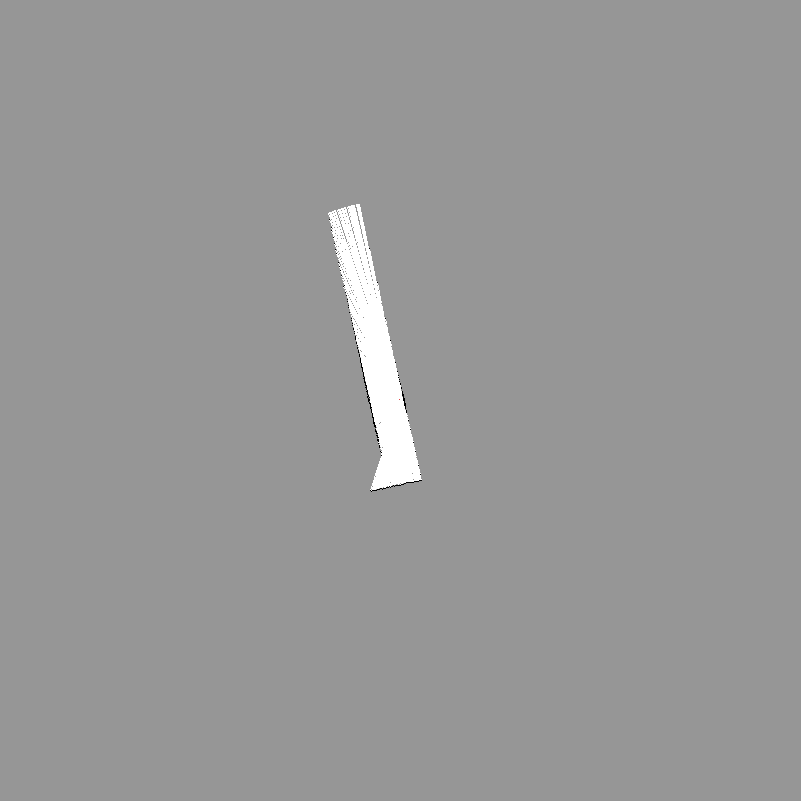
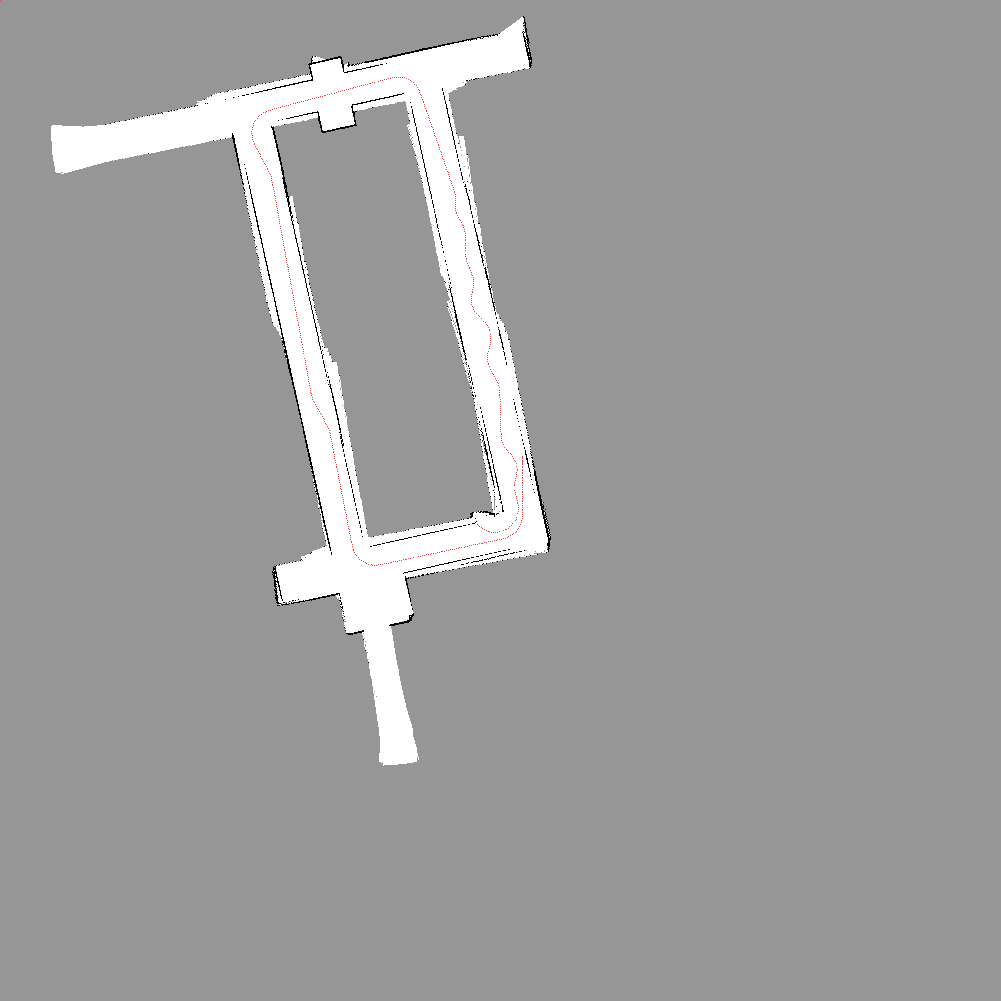
update func

Changed region(s): [[0.0312, 0.0, 0.5618, 0.7803]]

diff --git a/rbpf_dataloader.py b/rbpf_dataloader.py
@@ -10,6 +10,7 @@
 import pickle
 import numpy as np
 from scipy.spatial.transform import Rotation as R
+import transformations as tf
 
 class DataLoader():
     '''
@@ -61,13 +62,20 @@ class DataLoader():
         odom_idx = np.argmin(np.abs(self.odom_['time'] - lidar_t))
         return np.array([self.odom_['x'][odom_idx], self.odom_['y'][odom_idx], self.odom_['theta'][odom_idx]])
         
-    def _polar_to_cartesian(self, scan):
+    def _polar_to_cartesian(self, scan, pose = None):
         '''
             Converts polar scan to cartisian x,y coordinates
         '''
         scan[scan > self.lidar_max_ ] = self.lidar_max_ 
         lidar_ptx = scan * np.cos(self.lidar_angles_)
         lidar_pty = scan * np.sin(self.lidar_angles_)
+        
+        if pose is not None:
+            T = tf.twoDTransformation(pose[0],pose[1],pose[2])
+            pts = np.vstack((lidar_ptx, lidar_pty, np.ones(lidar_ptx.shape)))
+            trans_pts = T@pts
+            lidar_ptx, lidar_pty, _ = trans_pts
+            
         return lidar_ptx, lidar_pty
     
     def _world_to_map(self, world_x, world_y, MAP):
@@ -138,29 +146,21 @@ def test_data_loader():
     return DataLoader(lidar_scan_path, odom_path, lidar_specs_path)
     
     
-if __name__ == '__main__':
-    
-    d = test_data_loader()
-    res = d.bresenham2D(3,3,10,10)     
-
-    
     
 #### ONLY FOR CLEANING PICKLED BAG DATA ####
 def clean_data():
     # converts pickled bag into clean format for loading
-    lidar_scan_path = "data/lidar_scan.pkl"
+    
+    # lidar_scan_path = "data/lidar_scan.pkl"
+    # lidar = pickle.load(open(lidar_scan_path, "rb"))
+    # lidar_t, lidar_scan = clean_lidar(lidar)
+    # lidar_data = {'time':lidar_t, 'scan':lidar_scan}
+    # pickle.dump( lidar_data, open( "processed_lidar.pkl", "wb" ) )
+    
     odom_path = "data/odom.pkl"   
-    
-    lidar = pickle.load(open(lidar_scan_path, "rb"))
     odom = pickle.load(open(odom_path, "rb"))
-    
-    lidar_t, lidar_scan = clean_lidar(lidar)
     odom_t, odom_x, odom_y, odom_theta = clean_odom(odom)
-    
-    lidar_data = {'time':lidar_t, 'scan':lidar_scan}
     odom_data = {'time':odom_t, 'x':odom_x, 'y':odom_y, 'theta':odom_theta}
-    
-    pickle.dump( lidar_data, open( "processed_lidar.pkl", "wb" ) )
     pickle.dump( odom_data, open( "processed_odom.pkl", "wb" ) )
     print('done')
     
@@ -175,8 +175,8 @@ def clean_odom(odom):
     
     x = np.array(odom['posx'])
     y = np.array(odom['posy'])
-    x = x - x[0]
-    y = y - y[0]
+    # x = x - x[0]
+    # y = y - y[0]
     
     quatz = np.array(odom['quatz'])
     quatw = np.array(odom['quatw'])   
@@ -189,6 +189,11 @@ def clean_odom(odom):
     euler = r.as_euler('zyx', degrees=False)
     
     theta = euler[:,0]
+ 
+    pts = np.vstack((x,y,np.ones(x.shape)))
+    trans_pts = tf.twoDTransformation(-x[0],-y[0],-theta[0])@pts
+    x,y = trans_pts[0],trans_pts[1]
+    print(theta[0])
     theta = theta - theta[0]
     
     angle_range = np.pi
@@ -213,4 +218,11 @@ def clean_lidar(lidar):
     
     tot_msec, scan = tot_msec[::50], scan[::50]
     return tot_msec, scan
+ 
+    
+if __name__ == '__main__':
+    
+    # d = test_data_loader()
+    # res = d.bresenham2D(3,3,10,10)     
+    clean_data()
     

diff --git a/rbpf_SLAM.py b/rbpf_SLAM.py
@@ -14,10 +14,11 @@ from rbpf_particle import Particle
 from rbpf_dataloader import DataLoader
 import matplotlib.pyplot as plt
 import cv2
+import transformations as tf
 
 class SLAM():
     
-    def __init__(self,  mov_cov, num_p = 20, map_resolution = 0.05, map_dimension = 20, Neff_thresh = 0.6):
+    def __init__(self, data_path, mov_cov, num_p = 20, map_resolution = 0.05, map_dimension = 20, Neff_thresh = 0.6):
         
         self.num_p_ = num_p
         self.Neff_ = 0
@@ -29,27 +30,24 @@ class SLAM():
         for i in range(self.num_p_):
             self.particles_.append(Particle(map_dimension, map_resolution, num_p))
         
-        lidar_scan_path = "data/processed_lidar.pkl"
-        odom_path = "data/processed_odom.pkl"
-        lidar_specs_path = "data/lidar_specs.pkl"
-        self.data_ = DataLoader(lidar_scan_path, odom_path, lidar_specs_path)
+        self.data_ = DataLoader(data_path[0], data_path[1], data_path[2])
         
         
     def _resample(self):
         pass
     
-    def _slam_update(self):
-        
+    def _slam_update(self):       
         for p in self.particles_:
-            pass
-        
+            pass     
         if self.Neff_ > self.Neff_thresh_:
             self._resample()
         
     def _run_slam(self, t0, t_end = None):
-        
+        '''
+            Performs SLAM
+        '''
         t_end = self.data_.lidar_['num_data'] if t_end is None else t_end + 1
-          
+                 
         for t in range(t0, t_end):                     
             if t == t0:
                 print("----Building first map----")
@@ -63,12 +61,34 @@ class SLAM():
                 # predict with motion model
                 pred_pose = p._predict(self.data_, t, self.mov_cov_)
                 
+                #### REMEAINING STEPS
+                est_pose = pred_pose
+                ####
                 
+                p._update_map(self.data_, t, est_pose)
                 
+        self._gen_map(p)
+    
+    
+    def _mapping_with_known_poses(self, t0, t_end = None, interval = 1):
+        '''
+            Uses noiseless odom data to generate entire map
+        '''
+        t_end = self.data_.lidar_['num_data'] if t_end is None else t_end + 1
+        p = self.particles_[0]
+        for t in range(t0, t_end, interval):                             
+            odom = self.data_._odom_at_lidar_idx(t)  
+            p._update_map(self.data_, t, odom)
+            if t%50==0:
+                self._gen_map(p)
+            print(t)                
+        self._gen_map(p)
                 
             
     def _gen_map(self, particle):
-        
+        '''
+            Generates map for visualization
+        '''
         log_odds      = particle.log_odds_
         logodd_thresh = particle.logodd_thresh_
         MAP = particle.MAP_

diff --git a/rbpf_particle.py b/rbpf_particle.py
@@ -53,7 +53,7 @@ class Particle():
         '''
         scan = data_.lidar_['scan'][t]
         obstacle = scan < data_.lidar_max_
-        world_x, world_y = data_._polar_to_cartesian(scan)
+        world_x, world_y = data_._polar_to_cartesian(scan, None)
         map_x, map_y = data_._world_to_map(world_x, world_y, self.MAP_)
         r_map_x, r_map_y = data_._world_to_map(0, 0, self.MAP_)
         
@@ -111,12 +111,28 @@ class Particle():
         Updates weight
         '''
     
-    def _update_map(self, data_, t):
+    def _update_map(self, data_, t, pose):
         '''
-        updates map with lidar scan z for last pose in trajectory
+            Updates map with lidar scan z for last pose in trajectory
 
         '''
-        pass
+        scan = data_.lidar_['scan'][t]
+        obstacle = scan < data_.lidar_max_
+        world_x, world_y = data_._polar_to_cartesian(scan, pose)
+        map_x, map_y = data_._world_to_map(world_x, world_y, self.MAP_)
+        r_map_x, r_map_y = data_._world_to_map(pose[0], pose[1], self.MAP_)
+        
+        for ray_num in range(len(scan)):
+            cells_x, cells_y = data_._bresenham2D(r_map_x, r_map_y, map_x[ray_num], map_y[ray_num], self.MAP_)
+            self.log_odds_[cells_x[:-1], cells_y[:-1]] += self.log_p_false
+            if obstacle[ray_num]:
+                self.log_odds_[cells_x[-1], cells_y[-1]] += self.log_p_true
+            else:
+                self.log_odds_[cells_x[-1], cells_y[-1]] += self.log_p_false
+        self.occu_ = 1 - (1/ (1 + np.exp(self.log_odds_)))
+        self.MAP_['map'] = self.occu_ > self.p_thresh_
+        
+        self.traj_indices_ = np.append(self.traj_indices_, np.array([[r_map_x],[r_map_y]]), 1)
     
     
     

diff --git a/odom_viz.py b/odom_viz.py
@@ -1,0 +1,67 @@
+ # -*- coding: utf-8 -*-
+'''
+Created on Sat Apr 25 21:48:04 2020
+
+@author: Vishnu Prem
+
+
+ Script to vizualise the lidar scan and odometry data
+ 
+'''
+
+from rbpf_dataloader import DataLoader
+import matplotlib.pyplot as plt
+import numpy as np
+
+# def odom_viz():
+
+lidar_scan_path = "data/processed_lidar.pkl"
+odom_path = "data/processed_odom.pkl"
+lidar_specs_path = "data/lidar_specs.pkl"
+
+data = DataLoader(lidar_scan_path, odom_path, lidar_specs_path)
+    
+# lidar_angles = data.lidar_angles_
+# for i in range(0,data.lidar_['num_data'],5):
+    
+
+#     lidar_scan = data.lidar_['scan'][i]
+#     lidar_scan[lidar_scan > 20] = 0
+#     lidar_ptx = lidar_scan * np.cos(lidar_angles)
+#     lidar_pty = lidar_scan * np.sin(lidar_angles)
+            
+#     plt.scatter(-lidar_pty, lidar_ptx,0.2)
+#     plt.axis('scaled')
+#     map_size = 20
+#     plt.xticks(np.arange(-map_size, map_size+1, 5))
+#     plt.yticks(np.arange(-map_size, map_size+1, 5))
+       
+#     plt.show()
+
+
+# plt.plot(data.odom_['theta'])
+# plt.show()
+
+plt.plot(data.odom_['x'], data.odom_['y'])
+
+# plt.show()
+
+
+offset = np.pi * 1.94
+for i in range(0, data.odom_['num_data']):
+    ang = data.odom_['theta'][i]
+    ang += offset
+    dx = np.cos(ang) 
+    dy = np.sin(ang)
+    plt.arrow(data.odom_['x'][i], data.odom_['y'][i], dx,dy)
+    # break
+    
+plt.show()
+    
+    
+    
+    
+    
+    
+    
+

diff --git a/main.py b/main.py
@@ -1,25 +1,37 @@
 # -*- coding: utf-8 -*-
-"""
-Created on Wed May  6 20:23:19 2020
 
-@author: Vishnu Prem
-"""
+############################################
+#       University of Pennsylvania
+#            ESE 650 Project
+#     Authors: Vishnu Prem & Ravi Teja
+#   Rao-Blackwellized Paricle Filter SLAM
+#          ---main script---
+############################################
+
 import numpy as np
 from rbpf_SLAM import SLAM
+
+
+
+lidar_scan_path = "data/processed_lidar.pkl"
+odom_path = "data/processed_odom.pkl"
+lidar_specs_path = "data/lidar_specs.pkl"
+data_path = [lidar_scan_path, odom_path, lidar_specs_path]
 
 mov_cov = np.array([[1e-4, 0, 0],
                     [0, 1e-4, 0],
                     [0, 0 , 1e-4]])
+
 map_resolution = 0.05
-map_dimension = 20
+map_dimension = 25
 num_p = 1
 p_thresh = 0.5
 Neff_thresh = 0.6
 
 t0 = 0
-t_end = 1 # timestep to end SLAM
+t_end = None # timestep to end SLAM
 
-slam = SLAM(mov_cov, num_p, map_resolution, map_dimension, Neff_thresh)
-slam._run_slam(t0, t_end)
+slam = SLAM(data_path, mov_cov, num_p, map_resolution, map_dimension, Neff_thresh)
+# slam._run_slam(t0, t_end)
 
-
+slam._mapping_with_known_poses(t0,t_end)
